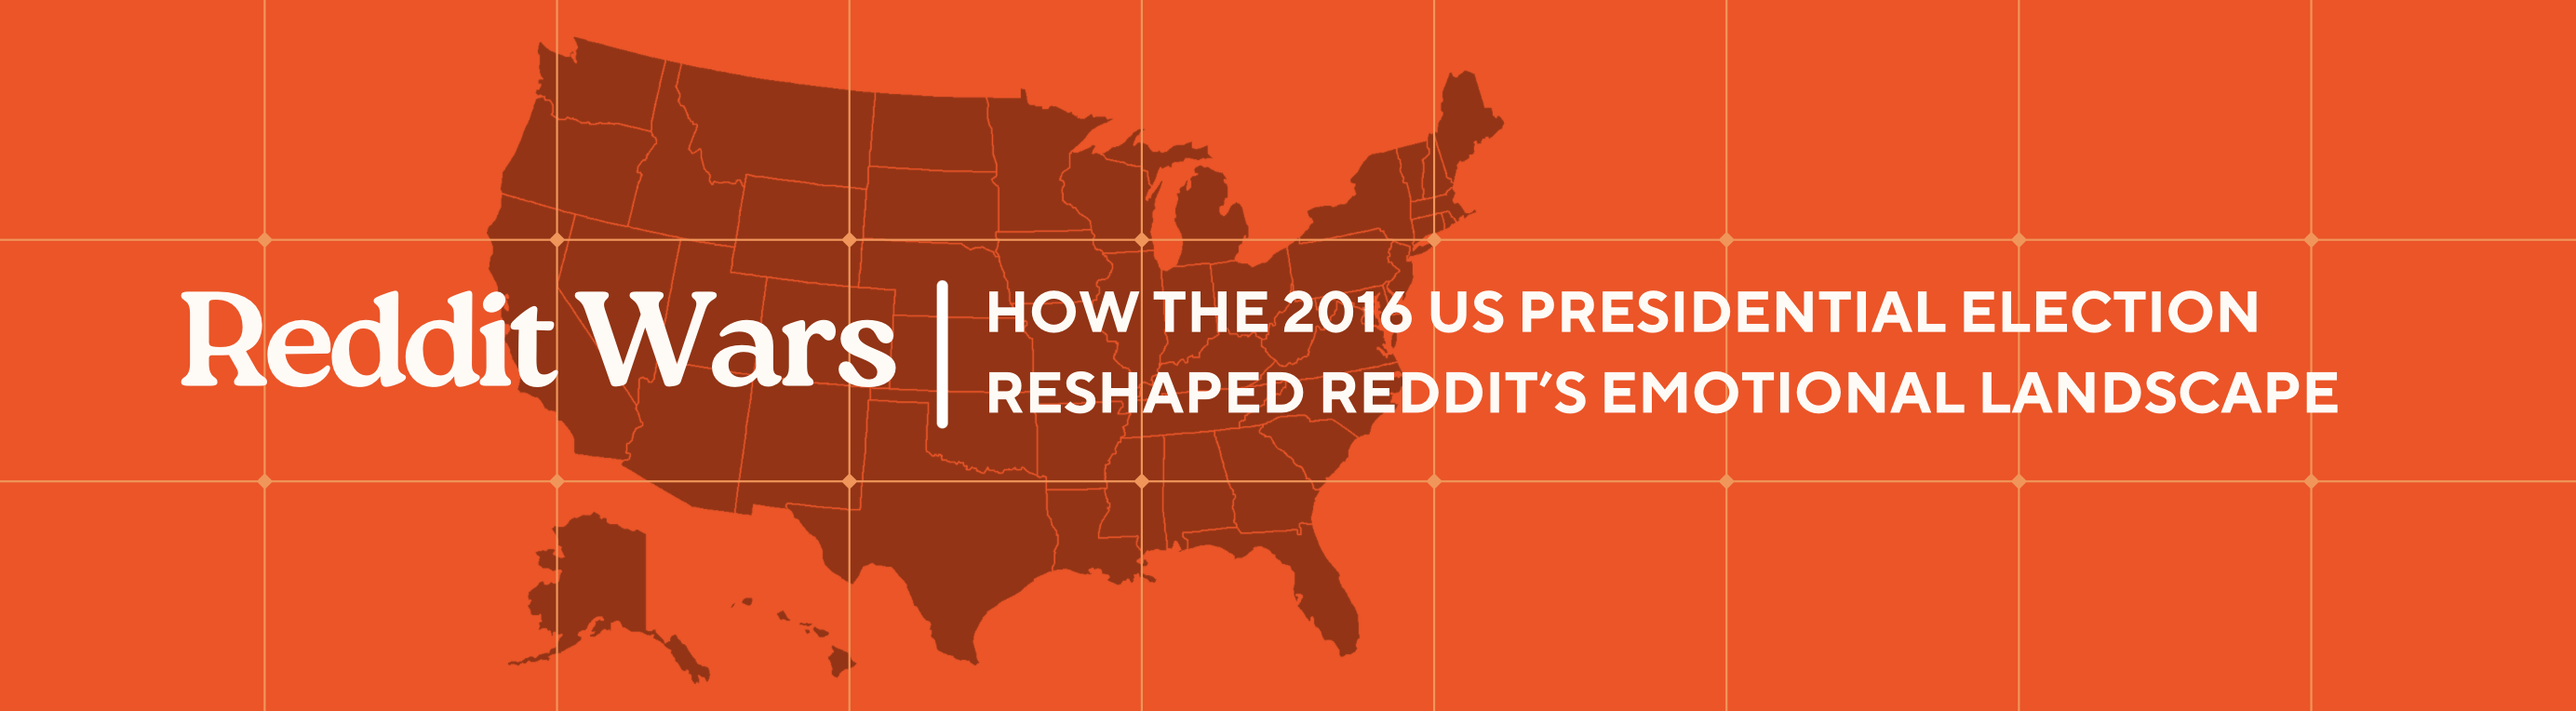
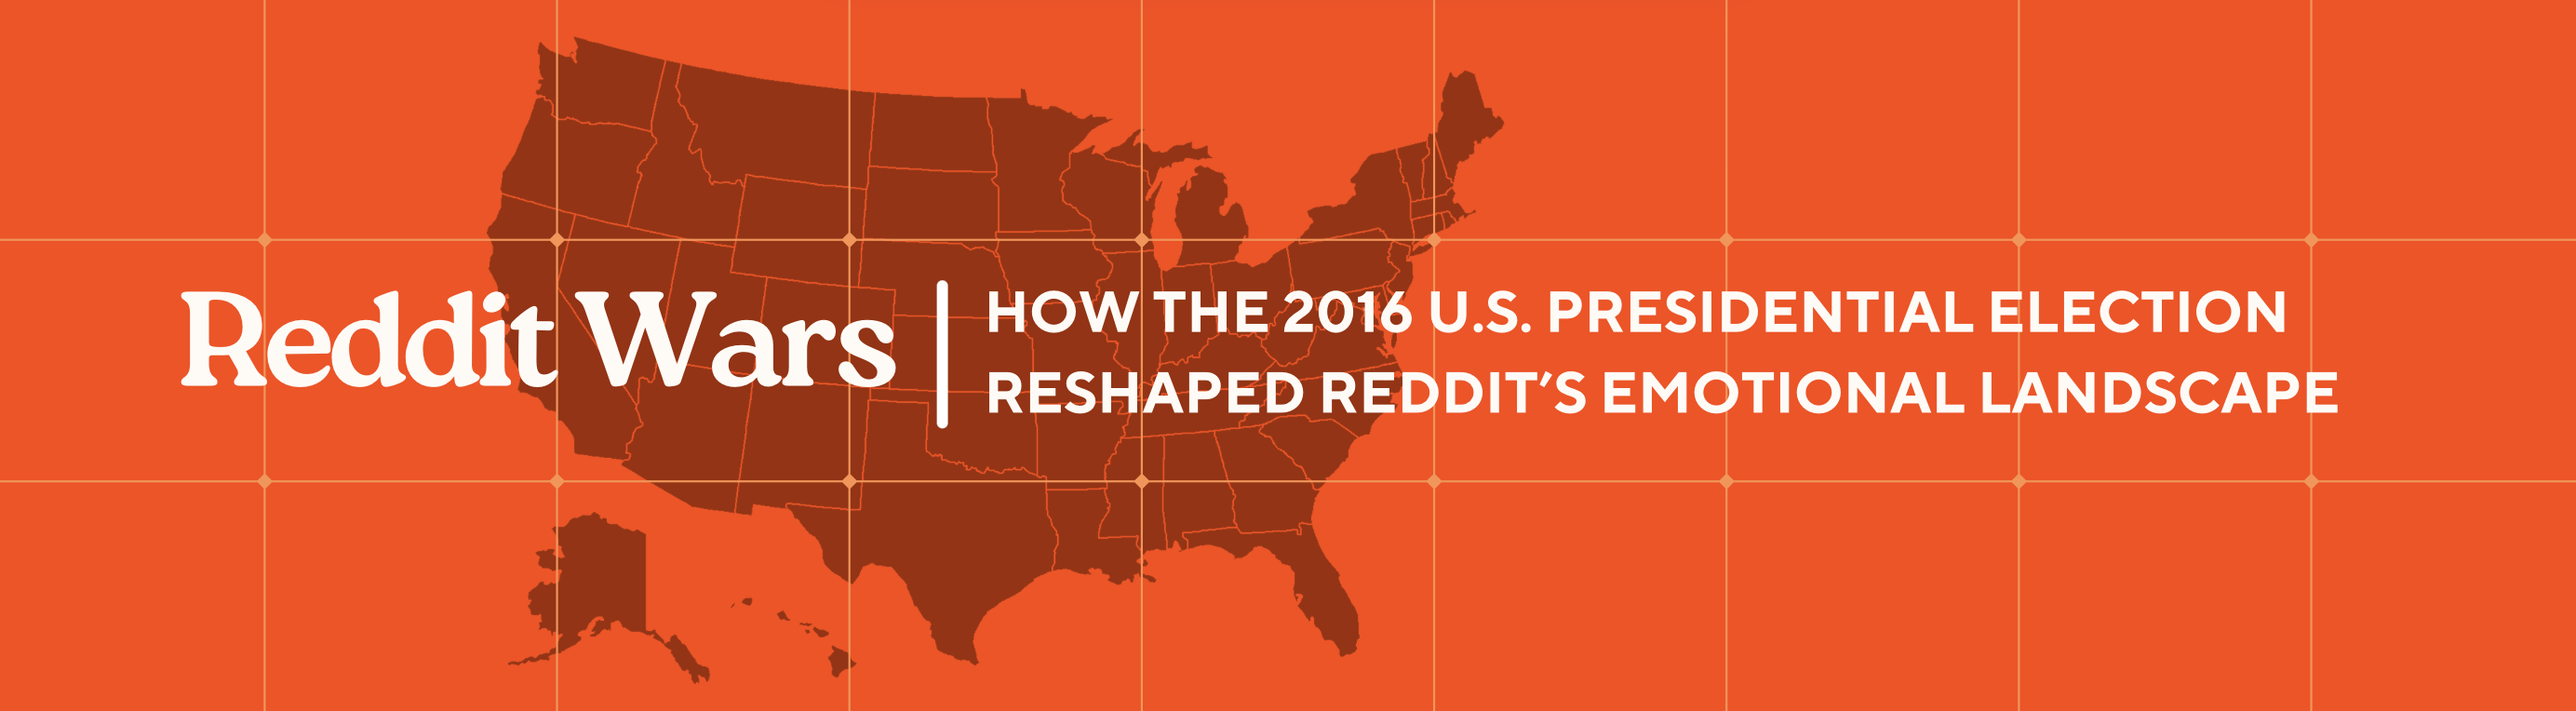
improved clustering

Changed region(s): [[0.5592, 0.3914, 0.901, 0.4817]]

diff --git a/index.html b/index.html
@@ -20,7 +20,7 @@ footer-extra:
 <body>
 <div class="layout">
   <nav class="toc">
-    <div class="toc-title">TRENDING ON R/DRAMADA</div>
+    <div class="toc-title">TRENDING ON r/DRAMADA</div>
     <a href="#reddit">What is Reddit?</a>
     <a href="#explore">Exploring the dataset</a>
     <a href="#questions">Research questions and hypotheses</a>
@@ -927,8 +927,100 @@ footer-extra:
           <div class="plot-container">
             <iframe src="assets/plots/politics_tsne.html"></iframe>
           </div>
+        </div>
+      </div>
+      <div class="indent">
+        <div class="comment">
+          <div class="avatar">
+            <img src="assets/img/grandma_da_logo.png" alt="Avatar" style="transform: scale(1.3);">
+          </div>
+          <div>
+            <div class="cmeta">
+              <span class="user">u/GrandmA_DA</span>
+              <span>• 1 hour ago</span>
+            </div>
+            <div class="body">
+              Oh how fun! You can hover your mouse over the dots to see the subreddit names pop up. 
+              And if it gets too crowded, you can click the themes in the legend to hide or show them. 
+              Even I can do it!
+            </div>
+          </div>
+        </div>
+        <div class="comment">
+          <div class="avatar">
+            <img src="assets/img/adam_logo.png" alt="Avatar" style="transform: scale(1.3);">
+          </div>
+          <div>
+            <div class="cmeta">
+              <span class="user">u/ADAm</span>
+              <span>• 4 hours ago</span>
+            </div>
+            <div class="body">
+              We can see that political cluster quite clearly! 
+              Then I guess you extract it an algorithm like KNN!
+            </div>
+          </div>
+        </div>
+        <div class="indent">
+          <div class="more-replies">More replies</div>
+          <div class="replies" hidden>
+            <div class="comment">
+              <div class="avatar">
+                <img src="assets/img/adalbert_logo.png" alt="Avatar" style="transform: scale(1.3);">
+              </div>
+              <div>
+                <div class="cmeta">
+                  <span class="user">u/ADAlbert</span>
+                  <span>• 2 hours ago</span>
+                </div>
+                <div class="body">
+                  Since most political communities seem to sit inside two main areas of the embedding space, we try to
+                  automatically extract a tightly connected “political cluster.” We start from a known political subreddit,
+                  <code>2016_elections</code>, and search for communities that are extremely similar to it.
+                  <br>
+                  <br>
+                  Each subreddit is represented as a high-dimensional embedding vector describing its behavioral or thematic
+                  profile. To compare them, we use <strong>cosine similarity</strong>, which measures how close two vectors
+                  are in direction rather than size. A value close to 1 means two communities behave almost the same.
+                  <br>
+                  <br>
+                  To do this efficiently, we first use a <strong>K-nearest-neighbors</strong> model to get candidate
+                  neighbors in the embedding space, then apply a much stricter cosine similarity filter
+                  (only subreddits above a very high similarity threshold are accepted).
+                  <br>
+                  <br>
+                  The cluster grows iteratively: starting from the seed, we take its neighbors, keep only the extremely
+                  similar ones, then repeat the process for each new accepted subreddit. This gradually creates a compact,
+                  highly cohesive political cluster rather than a loose cloud of vaguely related communities.
+                  <br>
+                  <br>
+                  In short: KNN proposes nearby candidates, cosine similarity decides who truly belongs, and the iterative
+                  expansion builds a clean political core around our seed subreddit.
+                </div>
+              </div>
+            </div>
+          </div>
+        </div>
+      </div>
+    </section>
+    <section class="card thread">
+      <div class="comment">
+        <div class="avatar">
+          <img src="assets/img/adalbert_logo.png" alt="Avatar" style="transform: scale(1.3);">
+        </div>
+        <div>
+          <div class="cmeta">
+            <span class="user">u/ADAlbert</span>
+            <span>• 2 hours ago</span>
+          </div>
           <div class="body">
-            Inside that cluster, we can even attempt to perform a Left-Right split.
+            Inside this political cluster, we can even try to separate communities along a Left–Right divide. 
+            If you want to explore it yourself, you can click on <strong>“None”</strong> in the legend to hide
+            subreddits that were not classified and make the separation easier to see.
+            <br>
+            <br>
+            You can also hover over each point to reveal the subreddit name and its theme, which helps interpret
+            which communities end up on each side.
           </div>
           <div class="plot-container">
             <iframe src='https://flo.uri.sh/visualisation/26904101/embed' title='Interactive or visual content' class='flourish-embed-iframe' frameborder='0' scrolling='no' style='width:None;height:None;' sandbox='allow-same-origin allow-forms allow-scripts allow-downloads allow-popups allow-popups-to-escape-sandbox allow-top-navigation-by-user-activation'></iframe>
@@ -962,31 +1054,38 @@ footer-extra:
                 <span>• 2 hours ago</span>
               </div>
               <div class="body">
-                Indeed, clustering communities by their political view works… mostly. 
-                It would be even more interesting to separate moderates vs extremes subreddits! 
-                But that’s trickier and requires human judgment, which limits how precise we can be.
+                A quick reality check: our clustering results depend heavily on how we labeled communities.
+                Many subreddit names clearly signal political identity, but that isn’t always guaranteed, and
+                we only had limited contextual verification. This means our categorization may contain bias,
+                subjective interpretation, or simply be wrong in subtle ways.
+                <br>
+                <br>
+                Political identity can also evolve over time and is rarely captured by a single label. So
+                while the clusters tell an interesting story, they should be interpreted with caution.
               </div>
             </div>
           </div>
-        </div>
-        <div class="comment">
-          <div class="avatar">
-            <img src="assets/img/grandma_da_logo.png" alt="Avatar" style="transform: scale(1.3);">
-          </div>
-          <div>
-            <div class="cmeta">
-              <span class="user">u/GrandmA_DA</span>
-              <span>• 1 hour ago</span>
+          <div class="comment">
+            <div class="avatar">
+              <img src="assets/img/john_johnson_logo.png" alt="Avatar" style="transform: scale(1.3);">
             </div>
-            <div class="body">
-              Oh how fun! You can hover your mouse over the dots to see the subreddit names pop up. 
-              And if it gets too crowded, you can click the themes in the legend to hide or show them. 
-              Even I can do it!
+            <div>
+              <div class="cmeta">
+                <span class="user">u/JohnJohnson</span>
+                <span>• 1 hour ago</span>
+              </div>
+              <div class="body">
+                One thing that really stands out is that communities with very strong positions exist on both
+                ends of the spectrum. Activism spaces and conspiracy-oriented communities appear at different
+                poles. Everyone’s passionate—just in different directions.
+                <br>
+                <br>
+                Overall, we do see a loose Left–Right separation: left-leaning subreddits hang out toward the lower-left, 
+                right-leaning ones drift toward the top-right. But don’t expect a perfect wall—there’s overlap, fuzziness, 
+                and plenty of nuance. It’s more of a “political spaghetti map” than a straight line.
+              </div>
             </div>
           </div>
-        </div>
-        <div class="more-replies">More replies</div>
-        <div class="replies" hidden>
           <div class="comment">
             <div class="avatar">
               <img src="assets/img/karen_logo.png" alt="Avatar" style="transform: scale(1.3);">
@@ -997,11 +1096,19 @@ footer-extra:
                 <span>• 1 hour ago</span>
               </div>
               <div class="body">
-                Excuse me?? Are you telling me this super-advanced AI space math can’t sort
-                everyone into “good patriots” and “wrong people”? Totally useless. Zero stars ⭐.
+                Okay, I see a pattern here: religion-focused communities (especially Christian ones) tend to cozy up
+                to right-wing spaces, while science-y communities are closer to the left. Not exactly shocking, but the fact
+                that it shows up so clearly in the embedding map is… kind of hilarious? 
+                <br>
+                <br>
+                Honestly, it’s like Reddit itself is sorting everyone into ideological cliques. I half expect a hall
+                monitor to pop up and tell people to behave.
               </div>
             </div>
           </div>
+        </div>
+        <div class="more-replies">More replies</div>
+        <div class="replies" hidden>
           <div class="comment">
             <div class="avatar">
               <img src="assets/img/grandma_da_logo.png" alt="Avatar" style="transform: scale(1.3);">
@@ -1014,6 +1121,22 @@ footer-extra:
               <div class="body">
                 All I see are colorful dots. Back in my day we argued face-to-face, not in
                 … whatever this <em>dot salad</em> is.
+              </div>
+            </div>
+          </div>
+          <div class="comment">
+            <div class="avatar">
+              <img src="assets/img/adalbert_logo.png" alt="Avatar" style="transform: scale(1.3);">
+            </div>
+            <div>
+              <div class="cmeta">
+                <span class="user">u/ADAlbert</span>
+                <span>• 2 hours ago</span>
+              </div>
+              <div class="body">
+                There’s more to explore! A natural next step would be zooming inside the political
+                cluster to see whether more structure appears — maybe separating moderate political
+                spaces from more extreme ones, or identifying different ideological sub-groups.
               </div>
             </div>
           </div>
